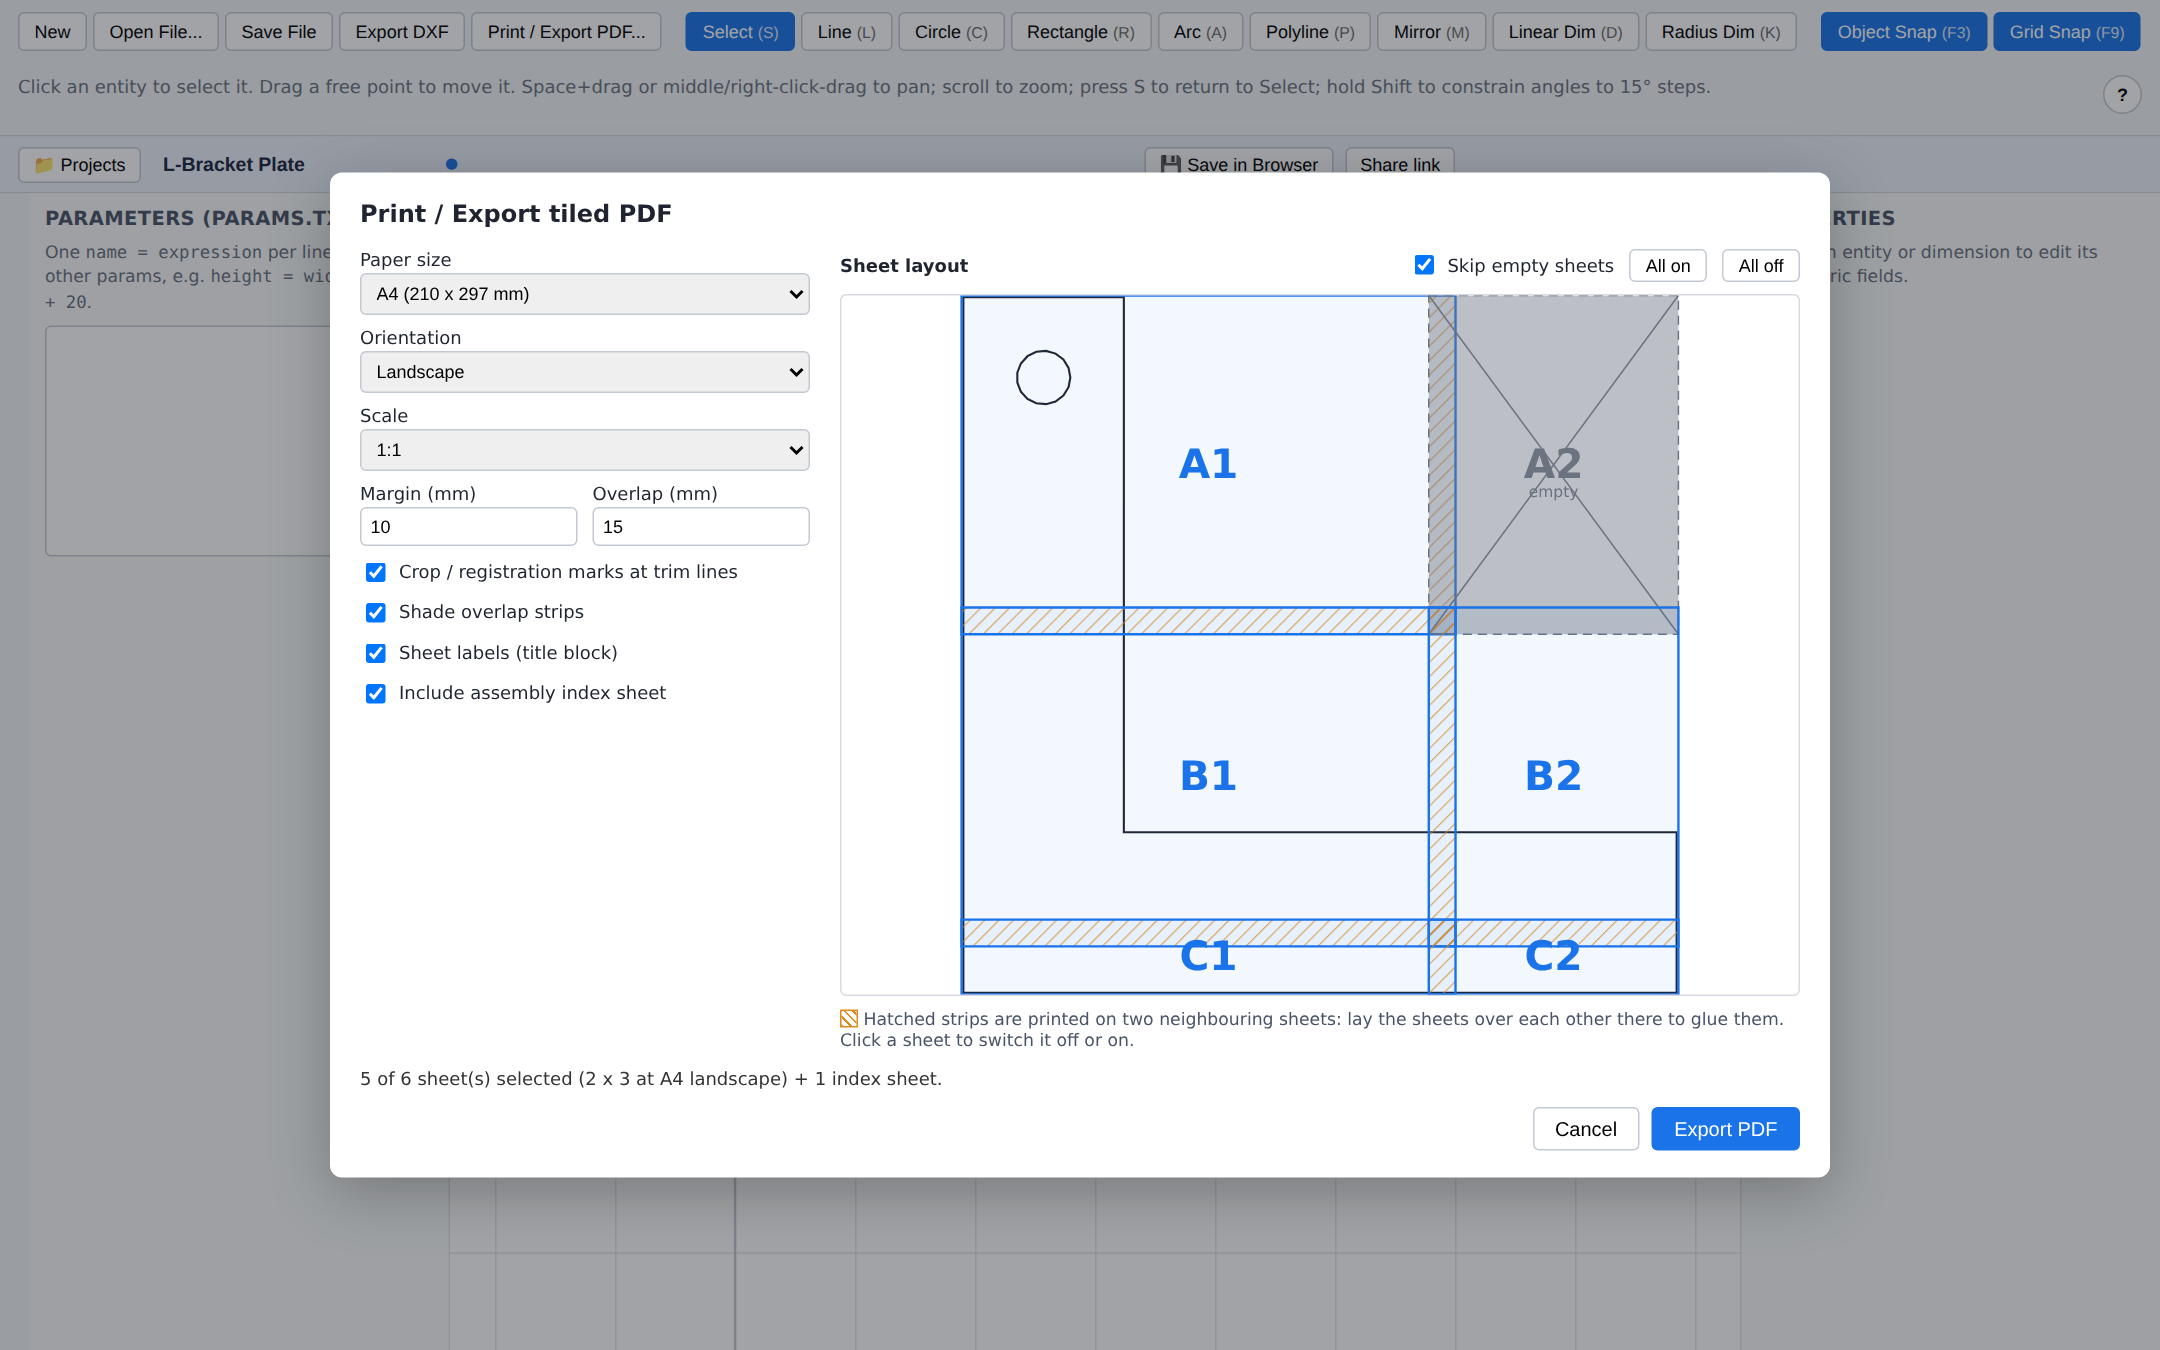
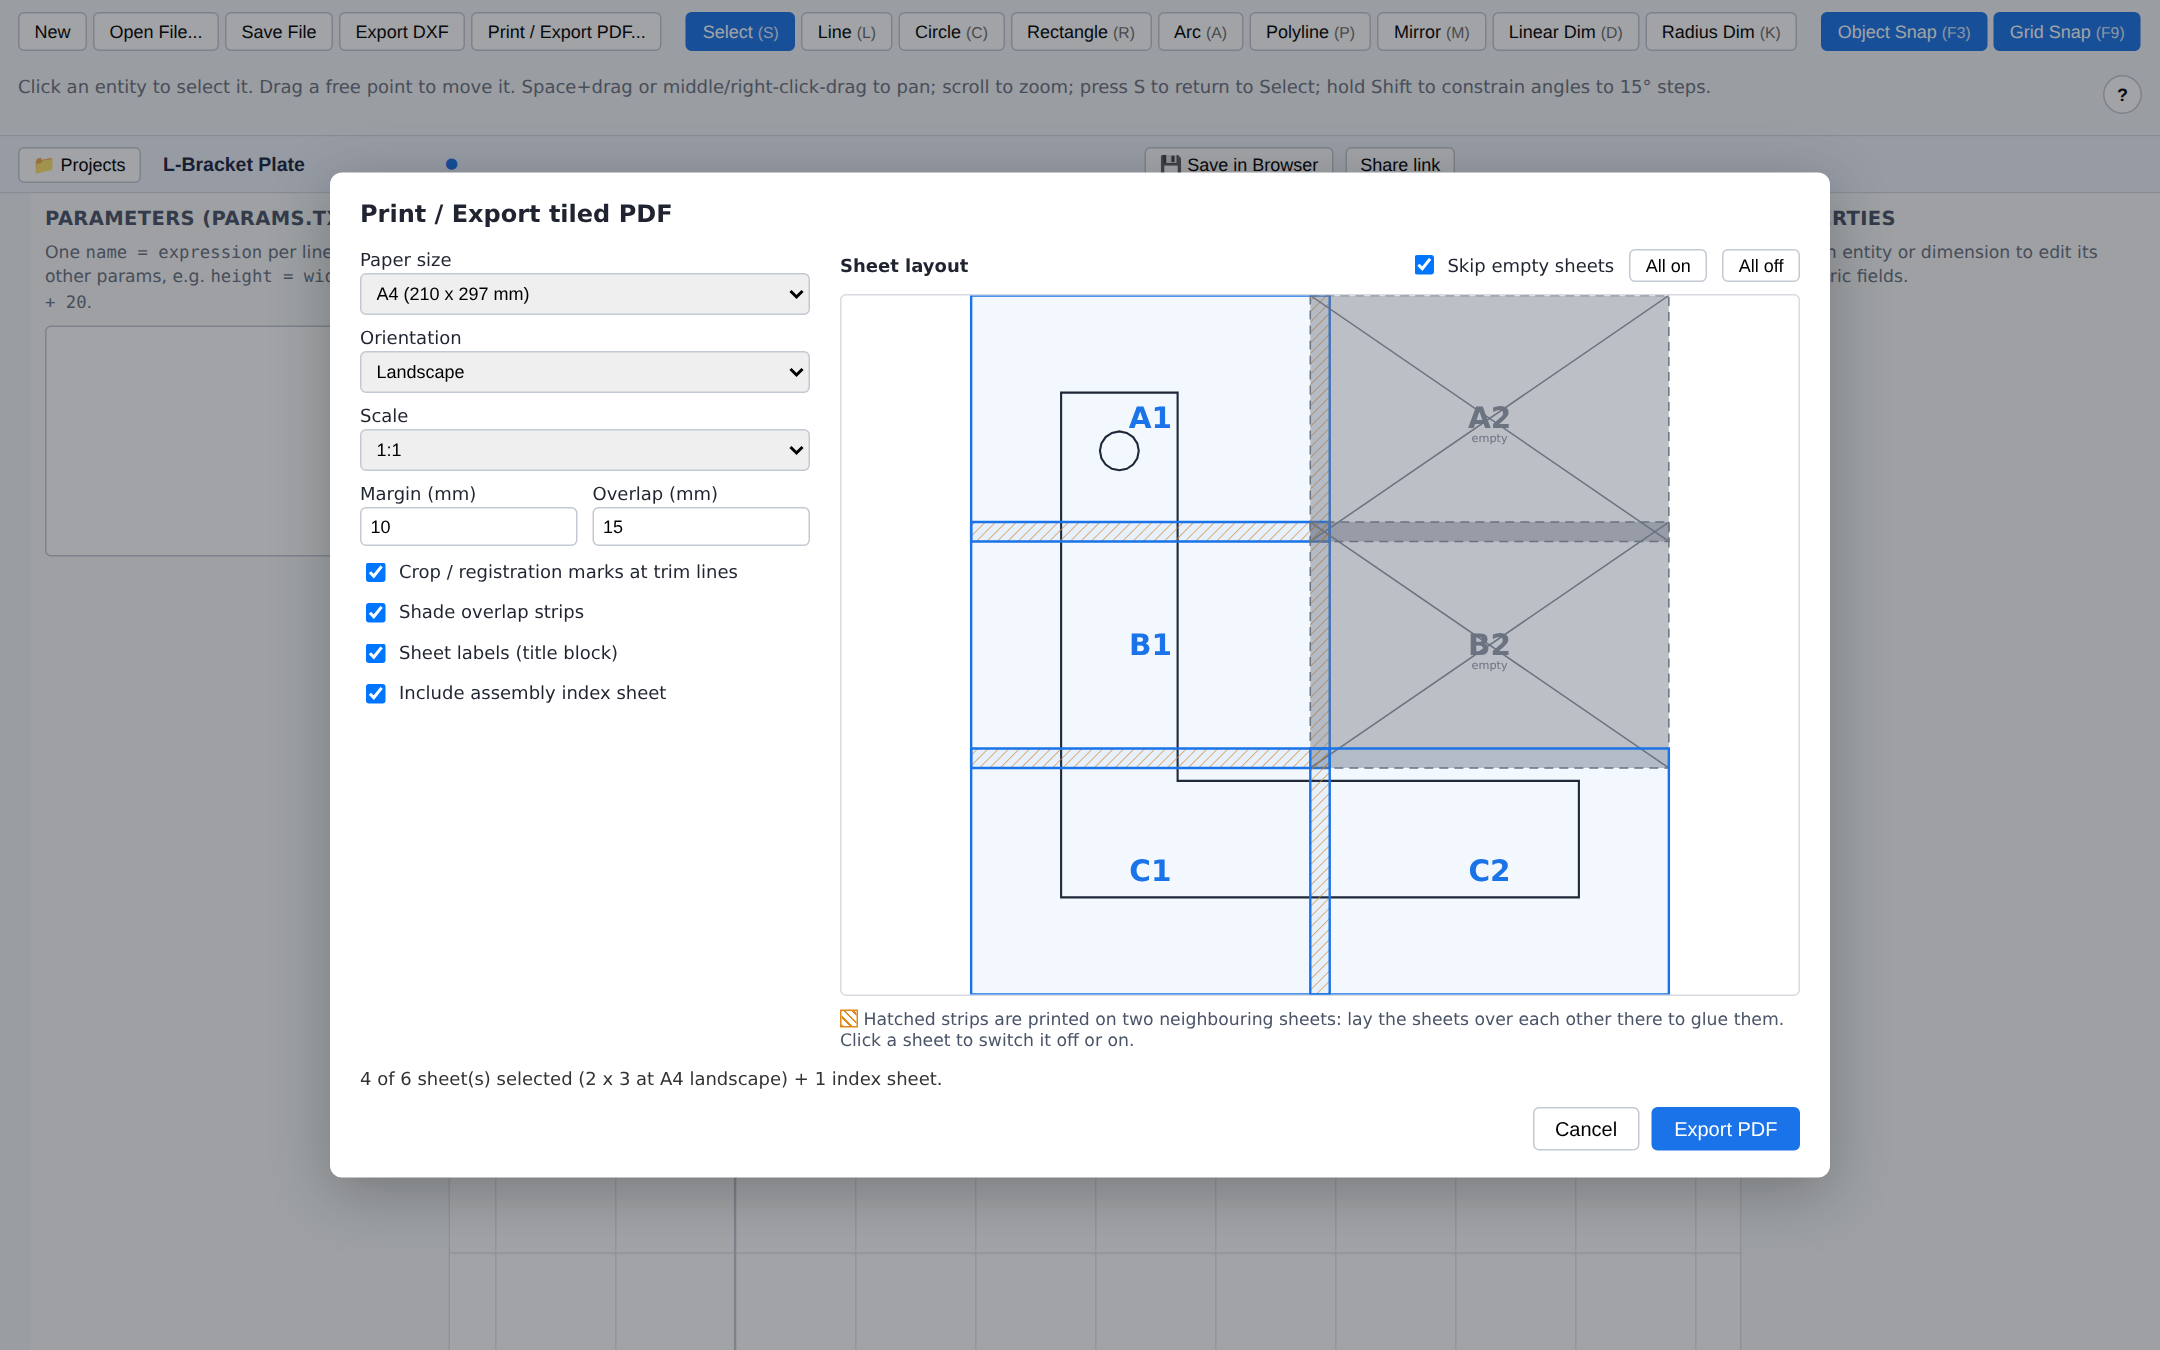
Print: every sheet is the same size, with the grid centred over the drawing
Edge sheets used to be clipped to the drawing, so the preview showed sheets of
different sizes. Tiling now produces a regular grid of full-size sheets (the
printable area), centred over the drawing so slack is split evenly; the
result reports the grid's extent, which the preview and the index sheet fit to.
Tests cover equal sizes across layouts, scale, centring and extent.

Claude-Session: https://claude.ai/code/session_013heZ9NKj2xiw8xW83K1Kwf

Changed region(s): [[0.4343, 0.2178, 0.7755, 0.7467], [0.7444, 0.2178, 0.7755, 0.3111]]

diff --git a/packages/core/src/print/tiling.ts b/packages/core/src/print/tiling.ts
@@ -51,6 +51,8 @@ export interface TilingResult {
   pageHeightMm: number;
   usableWidthMm: number;
   usableHeightMm: number;
+  /** The whole grid of sheets, in document coordinates: it covers the drawing, centred, with the same sheet size everywhere. */
+  extent: { min: Vec2; max: Vec2 };
 }
 
 export class TilingError extends Error {}
@@ -100,47 +102,29 @@ export function computeTiling(bounds: { min: Vec2; max: Vec2 }, settings: PrintS
   const cols = paperTotalWidth <= usableWidthMm ? 1 : 1 + Math.ceil((paperTotalWidth - usableWidthMm) / stepX);
   const rows = paperTotalHeight <= usableHeightMm ? 1 : 1 + Math.ceil((paperTotalHeight - usableHeightMm) / stepY);
 
+  // Every sheet is the same size (the full printable area): the grid is centred over the drawing,
+  // so any slack is split evenly instead of leaving small, odd-shaped sheets at the right and bottom.
+  const coverWidth = usableWidthMm + (cols - 1) * stepX;
+  const coverHeight = usableHeightMm + (rows - 1) * stepY;
+  const originX = bounds.min.x - (coverWidth - paperTotalWidth) / 2 / scale;
+  const topY = bounds.max.y + (coverHeight - paperTotalHeight) / 2 / scale;
+
   const tiles: Tile[] = [];
   for (let r = 0; r < rows; r++) {
     // Rows are laid out top-to-bottom in the drawing (row 0 = highest Y).
     const startPaperY = r * stepY;
-    const fullEndPaperY = Math.min(startPaperY + usableHeightMm, paperTotalHeight);
-    // The last row has no neighbour below, so nothing of it is shared overlap.
-    const coreEndPaperY = r === rows - 1 ? fullEndPaperY : Math.min(startPaperY + stepY, paperTotalHeight);
-
     for (let c = 0; c < cols; c++) {
       const startPaperX = c * stepX;
-      const fullEndPaperX = Math.min(startPaperX + usableWidthMm, paperTotalWidth);
-      const coreEndPaperX = c === cols - 1 ? fullEndPaperX : Math.min(startPaperX + stepX, paperTotalWidth);
+      const realMin: Vec2 = { x: originX + startPaperX / scale, y: topY - (startPaperY + usableHeightMm) / scale };
+      const realMax: Vec2 = { x: originX + (startPaperX + usableWidthMm) / scale, y: topY - startPaperY / scale };
+      // The part unique to this sheet. The last column/row has no neighbour, so all of it is core.
+      const coreRealMin: Vec2 = { x: realMin.x, y: r === rows - 1 ? realMin.y : topY - (startPaperY + stepY) / scale };
+      const coreRealMax: Vec2 = { x: c === cols - 1 ? realMax.x : originX + (startPaperX + stepX) / scale, y: realMax.y };
 
-      const realMin: Vec2 = {
-        x: bounds.min.x + startPaperX / scale,
-        y: bounds.max.y - fullEndPaperY / scale,
-      };
-      const realMax: Vec2 = {
-        x: bounds.min.x + fullEndPaperX / scale,
-        y: bounds.max.y - startPaperY / scale,
-      };
-      const coreRealMin: Vec2 = {
-        x: bounds.min.x + startPaperX / scale,
-        y: bounds.max.y - coreEndPaperY / scale,
-      };
-      const coreRealMax: Vec2 = {
-        x: bounds.min.x + coreEndPaperX / scale,
-        y: bounds.max.y - startPaperY / scale,
-      };
-
-      tiles.push({
-        row: r,
-        col: c,
-        label: `${rowLabel(r)}${c + 1}`,
-        realMin,
-        realMax,
-        coreRealMin,
-        coreRealMax,
-      });
+      tiles.push({ row: r, col: c, label: `${rowLabel(r)}${c + 1}`, realMin, realMax, coreRealMin, coreRealMax });
     }
   }
 
-  return { tiles, cols, rows, pageWidthMm, pageHeightMm, usableWidthMm, usableHeightMm };
+  const extent = { min: { x: originX, y: topY - coverHeight / scale }, max: { x: originX + coverWidth / scale, y: topY } };
+  return { tiles, cols, rows, pageWidthMm, pageHeightMm, usableWidthMm, usableHeightMm, extent };
 }

diff --git a/packages/core/src/print/pdfExport.ts b/packages/core/src/print/pdfExport.ts
@@ -220,14 +220,10 @@ function drawTile(
   const page = pdf.addPage([pageWidthPt, pageHeightPt]);
   const printable = { x: marginPt, y: marginPt, width: pageWidthPt - 2 * marginPt, height: pageHeightPt - 2 * marginPt };
 
-  // A drawing that fits on one sheet in an axis is centred in it; with several sheets every tile starts at the margin so they line up.
-  const slackPt = (usableMm: number, tileDocSize: number, sheets: number) =>
-    sheets === 1 ? Math.max(0, mm(usableMm) - tileDocSize * opts.scale * PT_PER_MM) / 2 : 0;
-  const offsetX = marginPt + slackPt(tiling.usableWidthMm, tile.realMax.x - tile.realMin.x, tiling.cols);
-  const offsetY = marginPt + slackPt(tiling.usableHeightMm, tile.realMax.y - tile.realMin.y, tiling.rows);
+  // Every tile is a full sheet, so the same transform applies to all of them.
   const toPage: Transform = (p) => ({
-    x: offsetX + (p.x - tile.realMin.x) * opts.scale * PT_PER_MM,
-    y: offsetY + (p.y - tile.realMin.y) * opts.scale * PT_PER_MM,
+    x: marginPt + (p.x - tile.realMin.x) * opts.scale * PT_PER_MM,
+    y: marginPt + (p.y - tile.realMin.y) * opts.scale * PT_PER_MM,
   });
 
   page.drawRectangle({ ...printable, borderColor: rgb(0.7, 0.7, 0.7), borderWidth: 0.5 });
@@ -250,7 +246,6 @@ function drawTile(
 function drawIndexSheet(
   pdf: PDFDocument,
   drawing: ResolvedDrawing,
-  bounds: Bounds,
   tiling: TilingResult,
   skipped: ReadonlySet<string>,
   opts: Required<PdfExportOptions>,
@@ -258,6 +253,8 @@ function drawIndexSheet(
   safeText: (text: string) => string,
 ): void {
   const { widthMm, heightMm, marginMm, headerMm } = INDEX_SHEET_PAGE;
+  // The overview shows the whole grid of sheets, which extends a little beyond the drawing itself.
+  const bounds = tiling.extent;
   const page = pdf.addPage([mm(widthMm), mm(heightMm)]); // A4 overview, independent of the print paper choice
   const margin = mm(marginMm);
   const docW = bounds.max.x - bounds.min.x || 1;
@@ -345,7 +342,7 @@ export async function exportTiledPdf(drawing: ResolvedDrawing, options: PdfExpor
   };
 
   const { pdf, font, safeText } = await createDocument(opts.title);
-  const { area, tiling } = makePlan(drawing, opts, font, safeText);
+  const { tiling } = makePlan(drawing, opts, font, safeText);
 
   const skipped = new Set(opts.skipTiles);
   const printed = tiling.tiles.filter((tile) => !skipped.has(tile.label));
@@ -353,7 +350,7 @@ export async function exportTiledPdf(drawing: ResolvedDrawing, options: PdfExpor
 
   printed.forEach((tile) => drawTile(pdf, drawing, tiling, tile, opts, font, safeText));
   if (opts.includeIndexSheet && tiling.tiles.length > 1) {
-    drawIndexSheet(pdf, drawing, area, tiling, skipped, opts, font, safeText);
+    drawIndexSheet(pdf, drawing, tiling, skipped, opts, font, safeText);
   }
   return pdf.save();
 }

diff --git a/packages/core/src/print/tiling.test.ts b/packages/core/src/print/tiling.test.ts
@@ -46,8 +46,53 @@ describe("print tiling", () => {
     // Overall coverage reaches the drawing's full bounds.
     const maxX = Math.max(...result.tiles.map((t) => t.realMax.x));
     const minX = Math.min(...result.tiles.map((t) => t.realMin.x));
-    expect(minX).toBeCloseTo(bounds.min.x, 6);
+    const minY = Math.min(...result.tiles.map((t) => t.realMin.y));
+    const maxY = Math.max(...result.tiles.map((t) => t.realMax.y));
+    expect(minX).toBeLessThanOrEqual(bounds.min.x + 1e-6);
     expect(maxX).toBeGreaterThanOrEqual(bounds.max.x - 1e-6);
+    expect(minY).toBeLessThanOrEqual(bounds.min.y + 1e-6);
+    expect(maxY).toBeGreaterThanOrEqual(bounds.max.y - 1e-6);
+  });
+
+  it("makes every sheet the same size, with the proportions of the printable area", () => {
+    const settings: PrintSettings = { paper: A4, orientation: "landscape", scale: 1, marginMm: 10, overlapMm: 15 };
+    for (const max of [
+      { x: 900, y: 600 },
+      { x: 650, y: 100 },
+      { x: 100, y: 100 },
+      { x: 277.5, y: 190.5 },
+    ]) {
+      const { tiles, usableWidthMm, usableHeightMm } = computeTiling(
+        { min: { x: 5, y: -3 }, max: { x: 5 + max.x, y: -3 + max.y } },
+        settings,
+      );
+      for (const t of tiles) {
+        expect(t.realMax.x - t.realMin.x).toBeCloseTo(usableWidthMm, 6);
+        expect(t.realMax.y - t.realMin.y).toBeCloseTo(usableHeightMm, 6);
+      }
+    }
+  });
+
+  it("scales sheet size with the print scale (a 1:2 print covers twice the drawing area per sheet)", () => {
+    const bounds = { min: { x: 0, y: 0 }, max: { x: 100, y: 100 } };
+    const [tile] = computeTiling(bounds, { paper: A4, orientation: "landscape", scale: 0.5, marginMm: 10, overlapMm: 15 }).tiles;
+    expect(tile.realMax.x - tile.realMin.x).toBeCloseTo(277 / 0.5, 6);
+  });
+
+  it("centres the grid over the drawing, splitting the slack evenly", () => {
+    const bounds = { min: { x: 0, y: 0 }, max: { x: 100, y: 40 } };
+    const { extent } = computeTiling(bounds, { paper: A4, orientation: "landscape", scale: 1, marginMm: 10, overlapMm: 15 });
+    expect(bounds.min.x - extent.min.x).toBeCloseTo(extent.max.x - bounds.max.x, 6);
+    expect(bounds.min.y - extent.min.y).toBeCloseTo(extent.max.y - bounds.max.y, 6);
+  });
+
+  it("reports the extent of the whole grid", () => {
+    const result = computeTiling(
+      { min: { x: 0, y: 0 }, max: { x: 900, y: 600 } },
+      { paper: A4, orientation: "landscape", scale: 1, marginMm: 10, overlapMm: 15 },
+    );
+    expect(result.extent.min.x).toBeCloseTo(Math.min(...result.tiles.map((t) => t.realMin.x)), 6);
+    expect(result.extent.max.y).toBeCloseTo(Math.max(...result.tiles.map((t) => t.realMax.y)), 6);
   });
 
   it("labels tiles with row letters and column numbers", () => {

diff --git a/packages/core/src/print/pdfExport.test.ts b/packages/core/src/print/pdfExport.test.ts
@@ -141,13 +141,19 @@ describe("tiled PDF export", () => {
       expect((e.minY + e.maxY) / 2).toBeCloseTo(pt(210 / 2), 0);
     });
 
-    it("keeps multi-sheet jobs aligned to the margin so the sheets line up", async () => {
+    it("makes every sheet the same size and centres the drawing over the grid", async () => {
       const drawing = drawingFor({ entities: [{ id: "r", kind: "rectangle", corner: at(0, 0), width: 600, height: 100 }] });
       const bytes = await exportTiledPdf(drawing, bare);
+      const pdf = await PDFDocument.load(bytes);
+      const sizes = new Set(pdf.getPages().map((p) => `${p.getWidth().toFixed(2)}x${p.getHeight().toFixed(2)}`));
+      expect(sizes.size).toBe(1);
+
+      const plan = await planPrint(drawing, bare);
+      const { extent } = plan.tiling;
+      expect(plan.area.min.x - extent.min.x).toBeCloseTo(extent.max.x - plan.area.max.x, 6);
+      // One row: the rectangle is centred vertically on every sheet that has it.
       const first = await drawnExtent(bytes, 0);
-      expect(first.minX).toBeCloseTo(pt(10 + 1), 0); // margin plus the 1 mm edge padding, not centred
-      expect(first.maxX).toBeGreaterThan(pt(297 - 10 - 2)); // and runs on to the right margin
-      expect((first.minY + first.maxY) / 2).toBeCloseTo(pt(210 / 2), 0); // one row: centred vertically
+      expect((first.minY + first.maxY) / 2).toBeCloseTo(pt(210 / 2), 0);
     });
   });
 

diff --git a/packages/ui/src/dialogs/sheetSelection.test.ts b/packages/ui/src/dialogs/sheetSelection.test.ts
@@ -5,8 +5,14 @@ import { isSheetEnabled, layoutKey, NO_OVERRIDES, setAllSheets, skippedLabels, t
 const tile = (label: string) => ({ label }) as PrintPlan["tiling"]["tiles"][number];
 const plan = (emptyTiles: string[] = [], cols = 2): PrintPlan =>
   ({
-    area: { min: { x: 0, y: 0 }, max: { x: 100, y: 100 } },
-    tiling: { cols, rows: 1, pageWidthMm: 297, pageHeightMm: 210, tiles: [tile("A1"), tile("A2")] },
+    tiling: {
+      cols,
+      rows: 1,
+      pageWidthMm: 297,
+      pageHeightMm: 210,
+      extent: { min: { x: 0, y: 0 }, max: { x: 100, y: 100 } },
+      tiles: [tile("A1"), tile("A2")],
+    },
     emptyTiles,
   }) as PrintPlan;
 

diff --git a/packages/ui/src/dialogs/PrintPreview.tsx b/packages/ui/src/dialogs/PrintPreview.tsx
@@ -24,7 +24,9 @@ function overlapStrips(tile: Tile): { min: Vec2; max: Vec2 }[] {
  * Clicking a sheet switches it off (or back on).
  */
 export function PrintPreview({ drawing, plan, isEnabled, onToggle }: PrintPreviewProps) {
-  const { area, tiling } = plan;
+  // The whole grid of sheets (all the same size), which extends a little beyond the drawing.
+  const { tiling } = plan;
+  const area = tiling.extent;
   const width = area.max.x - area.min.x;
   const height = area.max.y - area.min.y;
   // Screen y grows downwards, drawing y upwards.

diff --git a/packages/ui/src/dialogs/sheetSelection.ts b/packages/ui/src/dialogs/sheetSelection.ts
@@ -14,7 +14,8 @@ export const NO_OVERRIDES: SheetOverrides = { key: "", enabled: {} };
 
 /** Identifies a sheet layout: change the paper, scale, margins or the drawing and the sheets are no longer "the same sheets". */
 export function layoutKey(plan: PrintPlan): string {
-  const { tiling, area } = plan;
+  const { tiling } = plan;
+  const area = tiling.extent;
   return [tiling.cols, tiling.rows, tiling.pageWidthMm, tiling.pageHeightMm, area.min.x, area.min.y, area.max.x, area.max.y].join("|");
 }
 
